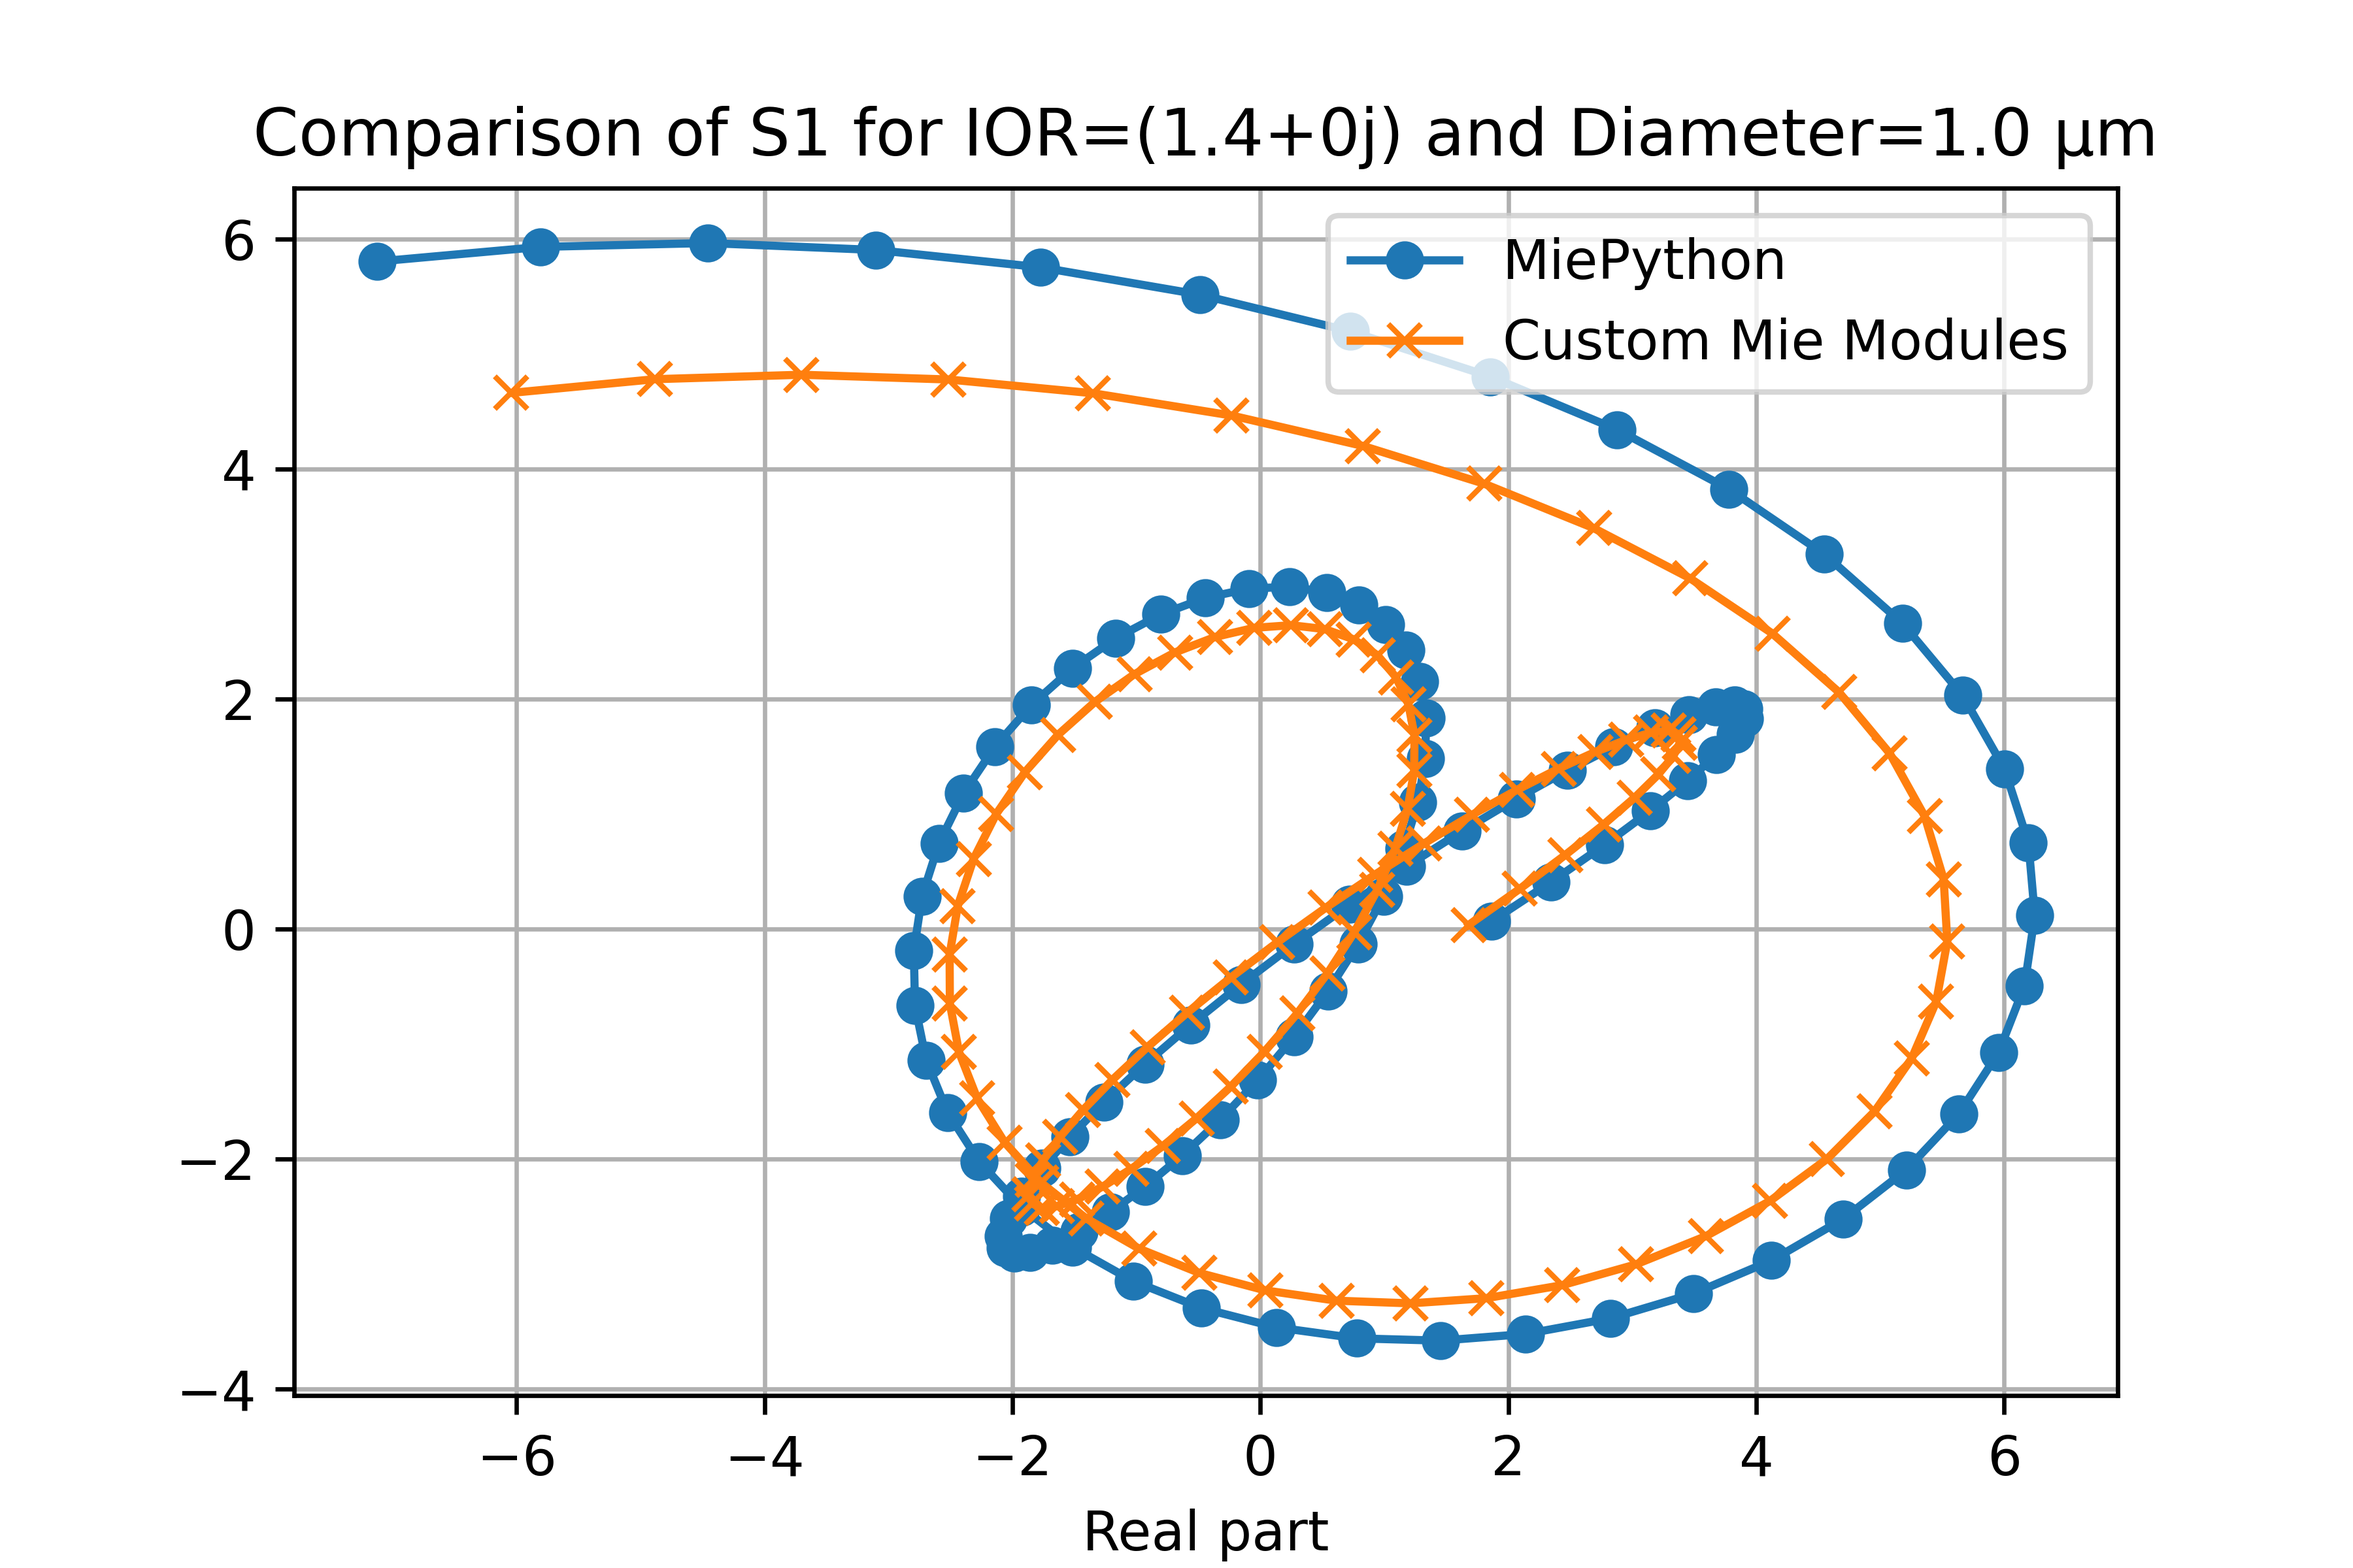
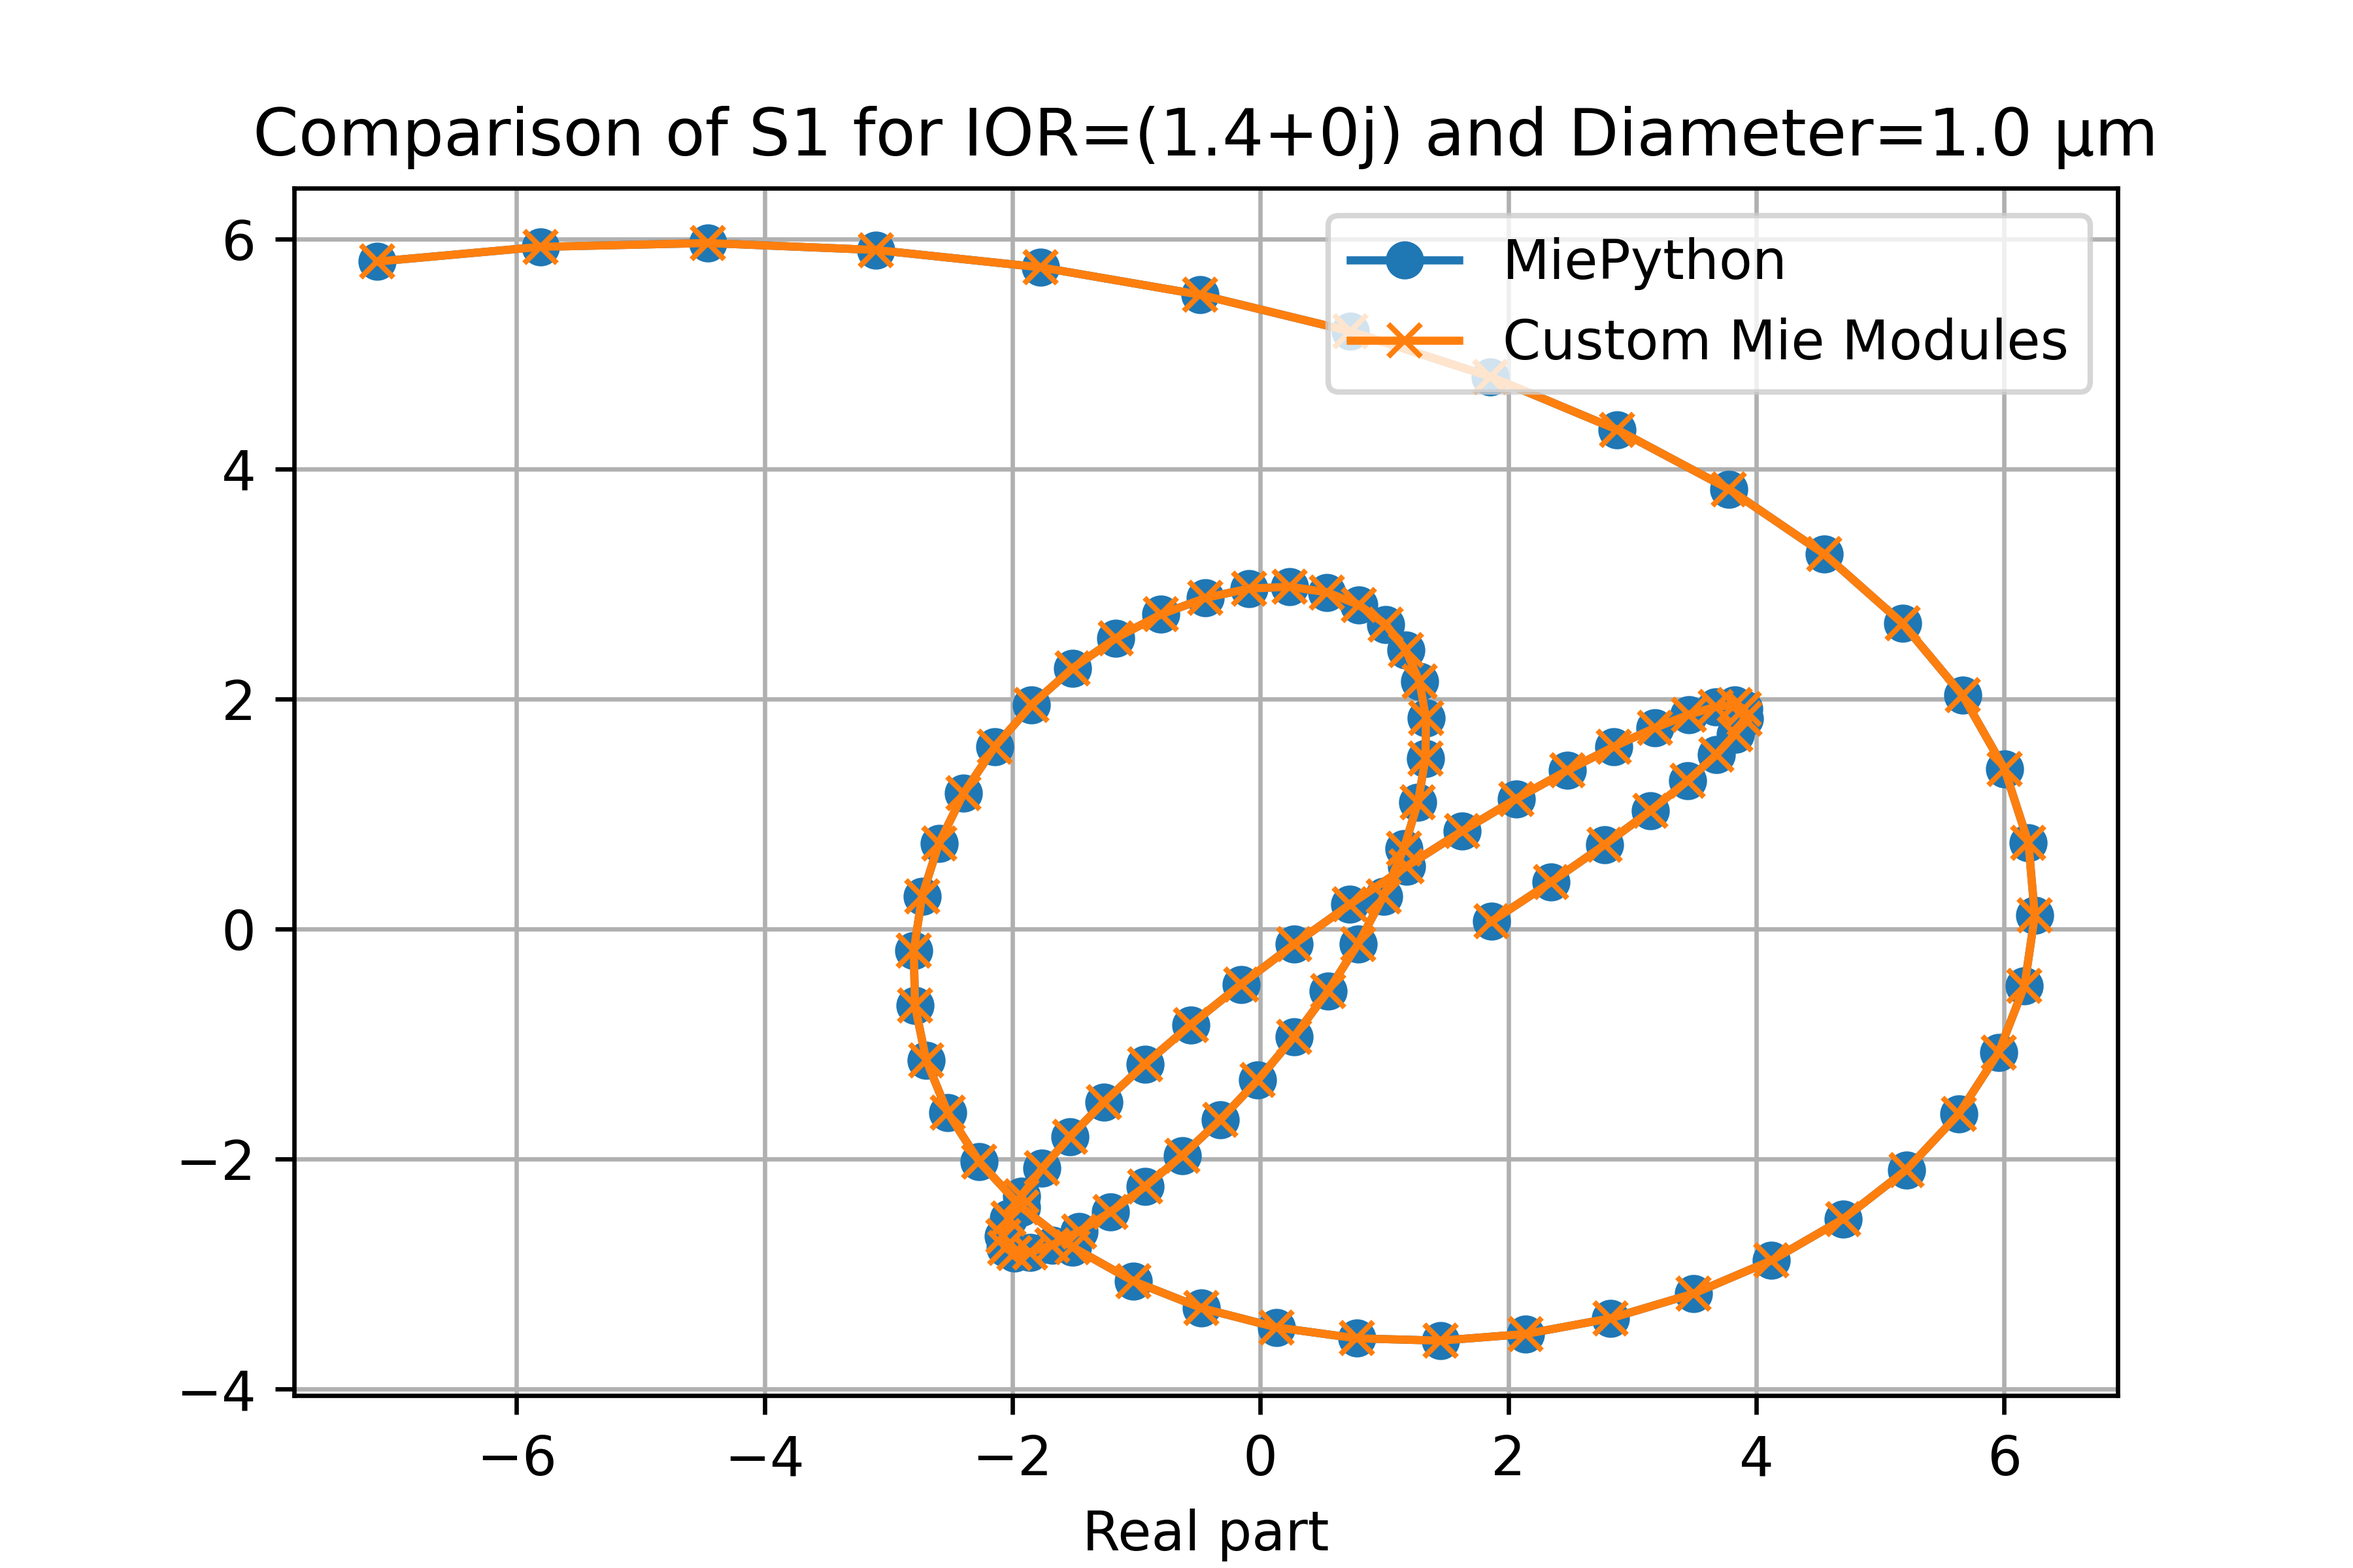
Fix tau_n initial condition (6u²-3) and recurrence indexing to use physics order n

diff --git a/validation/mie_modules.py b/validation/mie_modules.py
@@ -103,13 +103,13 @@ def mie_pt(u: float, n_max: int) -> np.ndarray:
     p[0] = 1
     t[0] = u
     p[1] = 3 * u
-    t[1] = 9*u*u - 3
-
+    t[1] = 6*u*u - 3 
+    
     # Recurrence relation for higher-order terms
     for n1 in range(2, n_max):
-        p[n1] = ((2*n1 + 1) * u * p[n1 - 1] - (n1 + 1) * p[n1 - 2]) / n1
-        t[n1] = n1 * u * p[n1] - (n1 + 1) * p[n1 - 1]
-
+        n = n1 + 1  # Physics order (n=3, 4, 5, ...)
+        p[n1] = ((2*n - 1) * u * p[n1 - 1] - n * p[n1 - 2]) / (n - 1)
+        t[n1] = n * u * p[n1] - (n + 1) * p[n1 - 1]
     return np.array([p, t])
 
 
@@ -129,6 +129,7 @@ def mie_s12(m: complex, x: float, u: float) -> np.ndarray:
         np.ndarray: Complex scattering amplitudes [S1, S2].
     """
     n_max = round(2 + x + 4 * x ** (1 / 3))
+
     ab = mie_ab(m, x)
     a_n, b_n = ab[0, :], ab[1, :]
 
